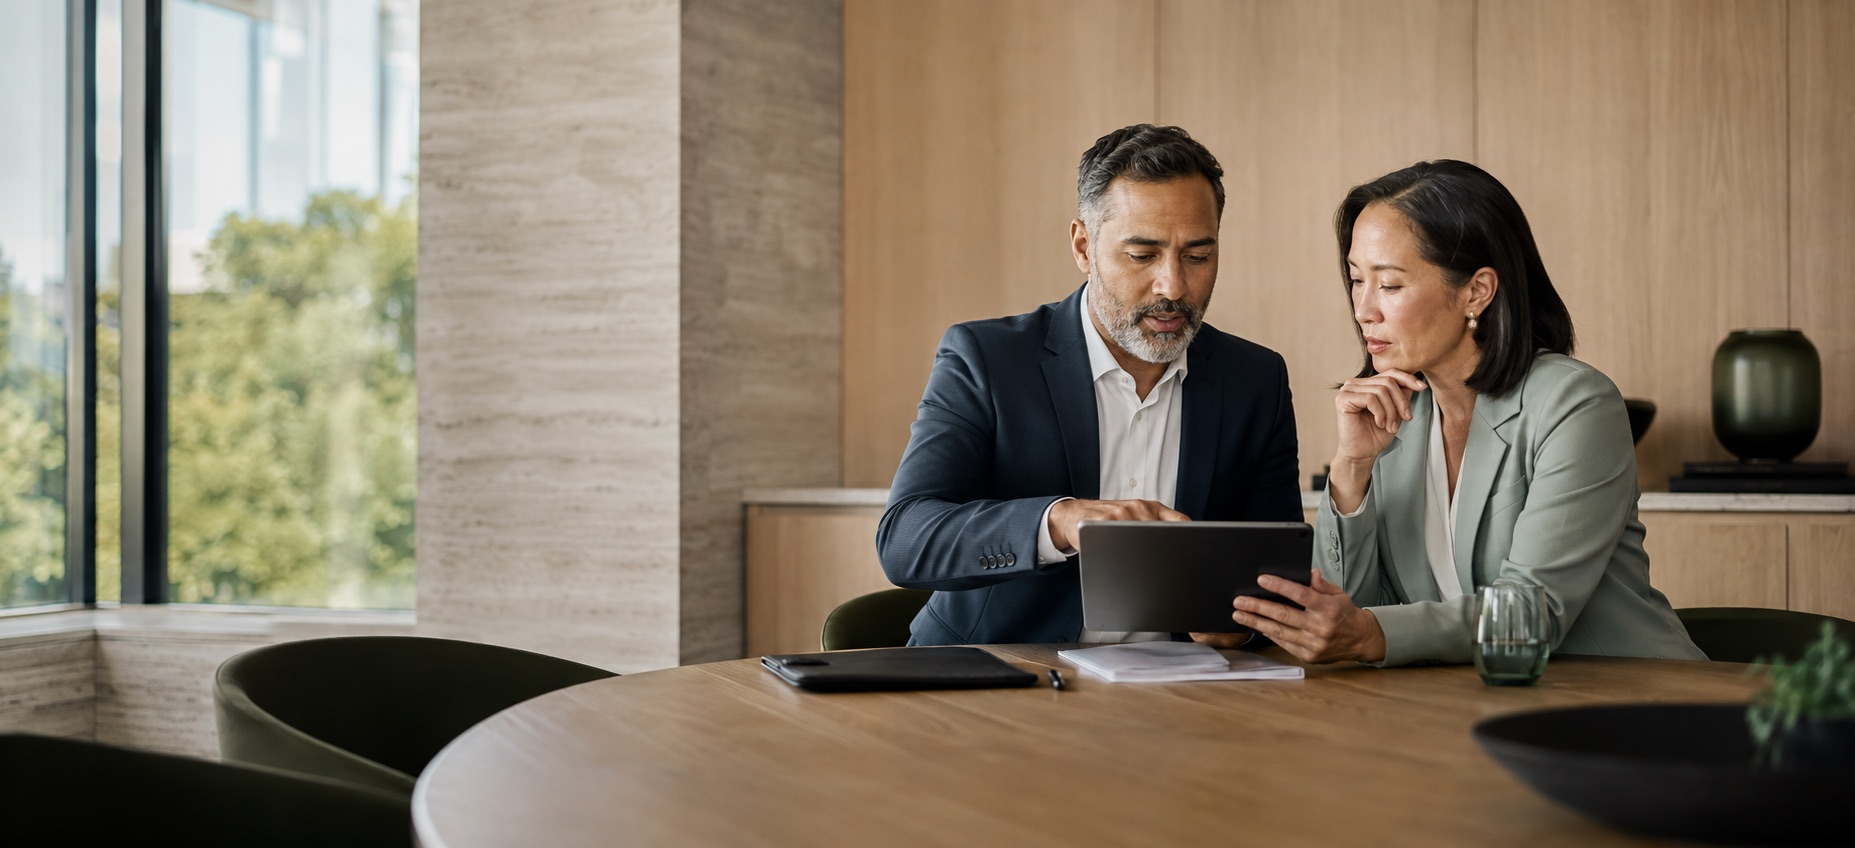
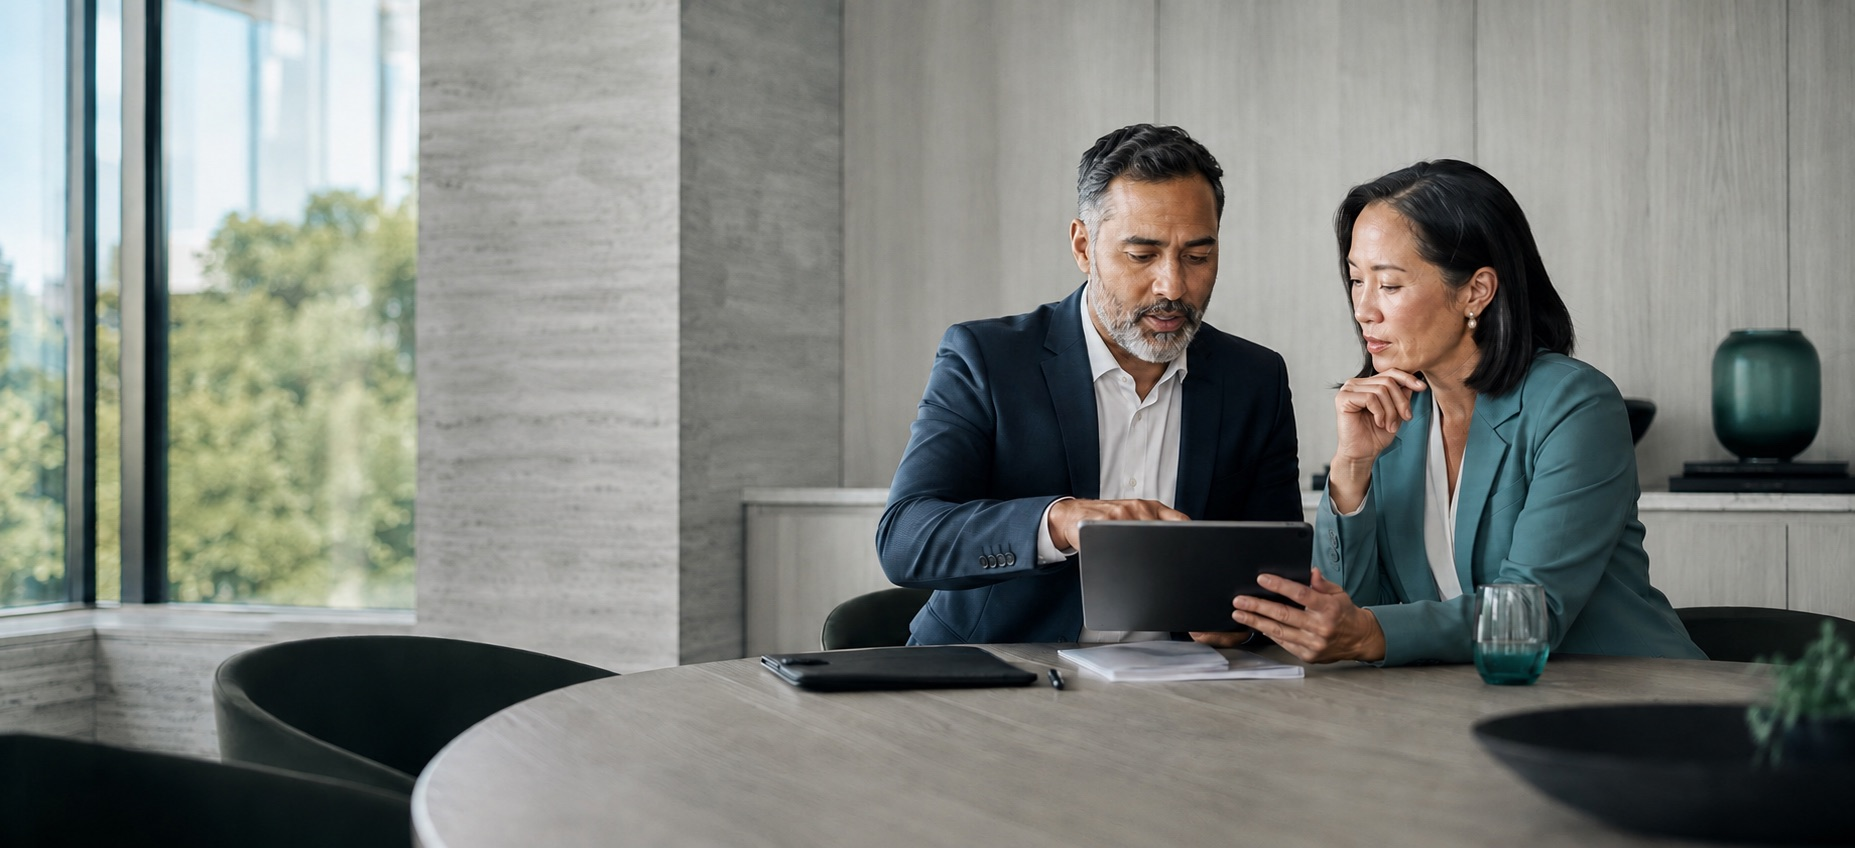
Integrate editorial imagery into page heroes

diff --git a/app/(marketing)/life-changes/[slug]/page.tsx b/app/(marketing)/life-changes/[slug]/page.tsx
@@ -1,7 +1,7 @@
 import type { Metadata } from 'next'
-import Image from 'next/image'
 import Link from 'next/link'
 import { notFound } from 'next/navigation'
+import EditorialBanner from '@/components/marketing/EditorialBanner'
 import { getLifeChange, LIFE_CHANGES } from '../_data'
 
 type Props = { params: Promise<{ slug: string }> }
@@ -25,23 +25,15 @@ export default async function LifeChangePage({ params }: Props) {
 
   return (
     <>
-      <section style={{ paddingBlock: '6.5rem 4.5rem', background: 'var(--mkt-surface-2)', borderBottom: '1px solid var(--mkt-line)' }}>
-        <div className="md:px-10" style={{ maxWidth: 1100, marginInline: 'auto', paddingInline: '1.5rem' }}>
-          <Link href="/life-changes" style={{ fontSize: '.78rem', color: 'var(--teal-deep)', textDecoration: 'none', fontWeight: 600 }}>← All life changes</Link>
-          <p style={{ margin: '2rem 0 0', color: 'var(--teal-deep)', fontSize: '.7rem', fontWeight: 700, letterSpacing: '.15em', textTransform: 'uppercase' }}>{event.eyebrow}</p>
-          <h1 style={{ margin: '1rem 0 0', maxWidth: '45rem', fontSize: 'clamp(2.6rem, 5.4vw, 4.8rem)', lineHeight: 1.03, fontWeight: 400, color: 'var(--mkt-ink-text)' }}>{event.title}</h1>
-          <p style={{ margin: '1.4rem 0 0', maxWidth: '40rem', fontSize: '1.08rem', lineHeight: 1.7, color: 'var(--mkt-stone)' }}>{event.introduction}</p>
-          <div style={{ position: 'relative', height: 'clamp(15rem, 34vw, 23rem)', marginTop: '2.75rem', overflow: 'hidden', border: '1px solid var(--mkt-line)', borderRadius: 16, background: 'var(--mkt-surface)' }}>
-            <Image
-              src={`/images/life-changes/${event.slug}.jpg`}
-              alt={`${event.shortTitle} — a new chapter in life`}
-              fill
-              priority
-              sizes="(max-width: 768px) 100vw, 1100px"
-              style={{ objectFit: 'cover', objectPosition: 'center', filter: 'saturate(.78)', transform: 'scale(1.01)' }}
-            />
-            <div aria-hidden="true" style={{ position: 'absolute', inset: 0, background: 'linear-gradient(90deg, rgba(244,247,246,.5) 0%, rgba(244,247,246,.08) 38%, transparent 68%)' }} />
+      <section style={{ paddingBlock: '6.5rem 4.5rem', background: 'var(--mkt-surface-2)', borderBottom: '1px solid var(--mkt-line)', overflow: 'hidden' }}>
+        <div className="relative md:flex md:min-h-[29rem] md:items-center md:px-10" style={{ maxWidth: 1240, marginInline: 'auto', paddingInline: '1.5rem' }}>
+          <div className="relative z-10 md:w-[54%]">
+            <Link href="/life-changes" style={{ fontSize: '.78rem', color: 'var(--teal-deep)', textDecoration: 'none', fontWeight: 600 }}>← All life changes</Link>
+            <p style={{ margin: '2rem 0 0', color: 'var(--teal-deep)', fontSize: '.7rem', fontWeight: 700, letterSpacing: '.15em', textTransform: 'uppercase' }}>{event.eyebrow}</p>
+            <h1 style={{ margin: '1rem 0 0', maxWidth: '45rem', fontSize: 'clamp(2.6rem, 5.4vw, 4.8rem)', lineHeight: 1.03, fontWeight: 400, color: 'var(--mkt-ink-text)' }}>{event.title}</h1>
+            <p style={{ margin: '1.4rem 0 0', maxWidth: '36rem', fontSize: '1.08rem', lineHeight: 1.7, color: 'var(--mkt-stone)' }}>{event.introduction}</p>
           </div>
+          <EditorialBanner src={`/images/life-changes/${event.slug}.jpg`} alt={`${event.shortTitle} — a new chapter in life`} />
         </div>
       </section>
 

diff --git a/app/(marketing)/charity-wills/page.tsx b/app/(marketing)/charity-wills/page.tsx
@@ -11,14 +11,16 @@ export const metadata = {
 export default function CharityWillsPage() {
   return (
     <>
-        <section style={{ paddingBlock: '7rem 5.5rem', background: 'var(--mkt-surface-2)', borderBottom: '1px solid var(--mkt-line)' }}>
-          <div className="md:px-10" style={W}>
+        <section style={{ paddingBlock: '7rem 5.5rem', background: 'var(--mkt-surface-2)', borderBottom: '1px solid var(--mkt-line)', overflow: 'hidden' }}>
+          <div className="relative md:flex md:min-h-[34rem] md:items-center md:px-10" style={W}>
+            <div className="relative z-10 md:w-[55%]">
             <p style={{ margin: 0, color: 'var(--teal-deep)', fontSize: '.72rem', fontWeight: 700, letterSpacing: '.16em', textTransform: 'uppercase' }}>Charity-sponsored Wills</p>
             <h1 style={{ margin: '1.25rem 0 0', maxWidth: '48rem', fontFamily: "var(--font-display)", fontSize: 'clamp(2.7rem, 5.5vw, 5rem)', lineHeight: 1.02, fontWeight: 400, color: 'var(--mkt-ink-text)' }}>Leave something meaningful behind—and receive your Will for <em style={{ color: 'var(--teal-deep)', fontWeight: 400 }}>$0</em>.</h1>
             <p style={{ margin: '1.5rem 0 0', maxWidth: '36rem', fontSize: '1.05rem', lineHeight: 1.7, color: 'var(--mkt-stone)' }}>Include a gift to an eligible registered charity and the cost of your standard Will is sponsored. Prefer not to include a gift? Choose $129 once with three months of Vault benefits, or $99 a year with your Will and continuing membership included.</p>
             <div style={{ marginTop: '2.25rem', display: 'flex', gap: '.85rem', flexWrap: 'wrap' }}>
               <Link href="/start?path=sponsored" className="mkt-btn-ink-l">Start a sponsored Will</Link>
               <Link href="/pricing" className="mkt-btn-ghost-l">Compare paid options</Link>
+            </div>
             </div>
             <EditorialBanner src="/images/editorial/charity-wills.jpg" alt="Two generations planting a native seedling together" />
           </div>

diff --git a/app/(marketing)/for-advisers/page.tsx b/app/(marketing)/for-advisers/page.tsx
@@ -7,8 +7,9 @@ export default function ForAdvisersPage() {
   return (
     <>
       {/* Hero */}
-      <section style={{ paddingTop: '4rem', paddingBottom: '5.5rem', background: 'var(--mkt-surface)' }}>
-        <div className="md:px-10" style={{ maxWidth: 1100, marginInline: 'auto', paddingInline: '1.5rem' }}>
+      <section style={{ paddingTop: '4rem', paddingBottom: '5.5rem', background: 'var(--mkt-surface-2)', overflow: 'hidden' }}>
+        <div className="relative md:flex md:min-h-[30rem] md:items-center md:px-10" style={{ maxWidth: 1100, marginInline: 'auto', paddingInline: '1.5rem' }}>
+          <div className="relative z-10 md:w-[54%]">
           <span style={SECTION_LABEL}>For Advisers</span>
           <h1 style={{
             fontFamily: "var(--font-body)",
@@ -21,6 +22,7 @@ export default function ForAdvisersPage() {
           <p style={{ marginTop: '1.1rem', fontSize: '1.05rem', lineHeight: 1.65, color: 'var(--mkt-stone)' }}>
             We&#8217;re building a referral programme for financial advisers, accountants, and estate planning professionals. Details are being finalised  -  this page will be updated when the programme is ready to launch.
           </p>
+          </div>
           <EditorialBanner src="/images/editorial/advisers.jpg" alt="Professional advisers reviewing an estate plan together" />
         </div>
       </section>

diff --git a/components/marketing/EditorialBanner.tsx b/components/marketing/EditorialBanner.tsx
@@ -8,16 +8,16 @@ type Props = {
 
 export default function EditorialBanner({ src, alt, position = 'center' }: Props) {
   return (
-    <div style={{ position: 'relative', height: 'clamp(14rem, 31vw, 21rem)', marginTop: '2.75rem', overflow: 'hidden', border: '1px solid var(--mkt-line)', borderRadius: 16, background: 'var(--mkt-surface)' }}>
+    <div className="relative mt-10 h-64 overflow-hidden rounded-xl md:absolute md:inset-y-0 md:right-0 md:mt-0 md:h-auto md:w-[58%] md:rounded-none" style={{ background: 'var(--mkt-surface)' }}>
       <Image
         src={src}
         alt={alt}
         fill
         priority
         sizes="(max-width: 768px) 100vw, 1240px"
-        style={{ objectFit: 'cover', objectPosition: position, filter: 'saturate(.78)', transform: 'scale(1.01)' }}
+        style={{ objectFit: 'cover', objectPosition: position, transform: 'scale(1.01)' }}
       />
-      <div aria-hidden="true" style={{ position: 'absolute', inset: 0, background: 'linear-gradient(90deg, rgba(244,247,246,.42) 0%, rgba(244,247,246,.06) 42%, transparent 72%)' }} />
+      <div aria-hidden="true" className="absolute inset-0" style={{ background: 'linear-gradient(90deg, var(--mkt-surface-2) 0%, rgba(244,247,246,.94) 10%, rgba(244,247,246,.42) 30%, transparent 58%)' }} />
     </div>
   )
 }

diff --git a/app/(marketing)/passing/page.tsx b/app/(marketing)/passing/page.tsx
@@ -18,8 +18,9 @@ const ARTICLES = [
 export default function PassingIndexPage() {
   return (
     <>
-      <section style={{ paddingTop: '4rem', paddingBottom: '5rem', background: 'var(--mkt-surface)' }}>
-        <div style={{ maxWidth: 1100, marginInline: 'auto', paddingInline: '1.5rem' }} className="md:px-10">
+      <section style={{ paddingTop: '4rem', paddingBottom: '5rem', background: 'var(--mkt-surface-2)', overflow: 'hidden' }}>
+        <div style={{ maxWidth: 1100, marginInline: 'auto', paddingInline: '1.5rem' }} className="relative md:flex md:min-h-[28rem] md:items-center md:px-10">
+          <div className="relative z-10 md:w-[54%]">
           <span style={LABEL}>Passing</span>
           <h1 style={{
             fontFamily: "var(--font-body)",
@@ -35,6 +36,7 @@ export default function PassingIndexPage() {
           <p style={{ fontSize: '1.05rem', lineHeight: 1.65, color: 'var(--mkt-stone)', maxWidth: '34rem' }}>
             Guides for executors, families, and anyone navigating what comes after a death. Clear, practical, and specific to Australian law.
           </p>
+          </div>
           <EditorialBanner src="/images/editorial/passing.jpg" alt="A calm home setting with an envelope and personal keepsakes" />
         </div>
       </section>

diff --git a/app/(marketing)/living-vault/page.tsx b/app/(marketing)/living-vault/page.tsx
@@ -28,9 +28,9 @@ export default function LivingVaultPage() {
   return (
     <>
       {/* ── Hero ──────────────────────────────────────────────────────────── */}
-      <section style={{ paddingTop: '7rem', paddingBottom: '5.5rem', background: 'var(--mkt-surface-2)' }}>
-        <div className="md:px-10" style={W}>
-          <div style={{ maxWidth: '44rem' }}>
+      <section style={{ paddingTop: '7rem', paddingBottom: '5.5rem', background: 'var(--mkt-surface-2)', overflow: 'hidden' }}>
+        <div className="relative md:flex md:min-h-[30rem] md:items-center md:px-10" style={W}>
+          <div className="relative z-10 md:w-[54%]" style={{ maxWidth: '44rem' }}>
             <span style={SECTION_LABEL}>The Command Centre</span>
             <h1 style={{
               fontFamily: "var(--font-display)",

diff --git a/app/(marketing)/learn/page.tsx b/app/(marketing)/learn/page.tsx
@@ -62,9 +62,9 @@ const ARTICLES = [
 export default function LearnPage() {
   return (
     <>
-      <section style={{ paddingTop: '4rem', paddingBottom: '5rem', background: 'var(--mkt-surface)' }}>
-        <div style={{ maxWidth: 1240, marginInline: 'auto', paddingInline: '1.5rem' }} className="md:px-10">
-          <div style={{ maxWidth: '38rem' }}>
+      <section style={{ paddingTop: '4rem', paddingBottom: '5rem', background: 'var(--mkt-surface-2)', overflow: 'hidden' }}>
+        <div style={{ maxWidth: 1240, marginInline: 'auto', paddingInline: '1.5rem' }} className="relative md:flex md:min-h-[28rem] md:items-center md:px-10">
+          <div className="relative z-10 md:w-[54%]" style={{ maxWidth: '38rem' }}>
             <span style={LABEL}>Learn</span>
             <h1 style={{
               fontFamily: "var(--font-body)",
